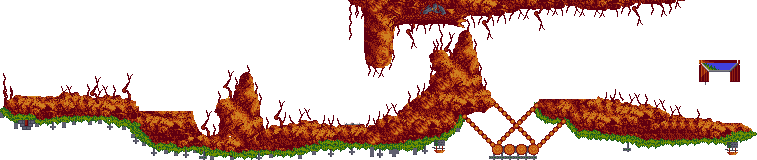
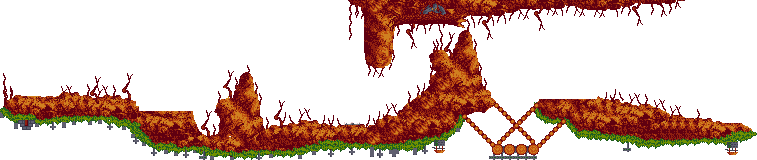
added gate positions for all levels

Changed region(s): [[0.9115, 0.375, 1.0, 0.5312]]

diff --git a/src/lemmings/utils.hpp b/src/lemmings/utils.hpp
@@ -288,13 +288,13 @@ namespace Utils
   const float LEVEL_GATE_TIME_ANIMATION[5] = {0.8f, 0.8f, 0.8f, 0.8f, 0.3f};
   const int LEVEL_GATE_TYPE[4][31] = {{G_FOREST, G_FOREST, G_DESSERT, G_DESSERT, G_SHAFT_PINK, G_SHAFT_BLUE, G_HELL, G_SHAFT_PINK, G_DESSERT, G_SHAFT_PINK, G_DESSERT, G_SHAFT_PINK, G_DESSERT, G_HELL, G_DESSERT, G_DESSERT, G_HELL, G_SHAFT_PINK, G_HELL, G_SHAFT_PINK, G_SHAFT_PINK, G_FOREST, G_FOREST, G_HELL, G_SHAFT_PINK, G_SHAFT_BLUE, G_DESSERT, G_SHAFT_PINK, G_HELL, G_DESSERT, G_HELL},
                                       {G_FOREST, G_FOREST, G_HELL, G_FOREST, G_FOREST, G_SHAFT_BLUE, G_HELL, G_DESSERT, G_HELL, G_FOREST, G_HELL, G_SHAFT_PINK, G_SHAFT_PINK, G_DESSERT, G_HELL, G_FOREST, G_SHAFT_BLUE, G_HELL, G_DESSERT, G_SHAFT_PINK, G_HELL, G_HELL, G_DESSERT, G_DESSERT, G_SHAFT_PINK, G_DESSERT, G_SHAFT_PINK, G_FOREST, G_FOREST, G_SHAFT_PINK, G_DESSERT},
-                                      {G_FOREST, G_DESSERT, G_FOREST, G_HELL, G_DESSERT, G_HELL, G_SHAFT_PINK, G_FOREST, G_SHAFT_BLUE, G_DESSERT, G_HELL, G_DESSERT, G_HELL, G_FOREST, G_FOREST, G_HELL, G_HELL, G_HELL, G_SHAFT_PINK, G_HELL, G_SHAFT_BLUE, G_HELL, G_SHAFT_PINK, G_HELL, G_HELL, G_SHAFT_PINK, G_HELL, G_DESSERT, G_SHAFT_BLUE, G_FOREST, G_HELL},
+                                      {G_FOREST, G_DESSERT, G_FOREST, G_HELL, G_DESSERT, G_HELL, G_SHAFT_PINK, G_FOREST, G_SHAFT_BLUE, G_DESSERT, G_HELL, G_DESSERT, G_HELL, G_FOREST, G_FOREST, G_FOREST, G_HELL, G_HELL, G_SHAFT_PINK, G_HELL, G_SHAFT_BLUE, G_HELL, G_SHAFT_PINK, G_HELL, G_HELL, G_SHAFT_PINK, G_HELL, G_DESSERT, G_SHAFT_BLUE, G_FOREST, G_HELL},
                                       {G_FOREST, G_FOREST, G_HELL, G_SHAFT_PINK, G_SHAFT_BLUE, G_HELL, G_FOREST, G_SHAFT_PINK, G_HELL, G_DESSERT, G_SHAFT_PINK, G_HELL, G_FOREST, G_DESSERT, G_SHAFT_PINK, G_HELL, G_SHAFT_PINK, G_SHAFT_PINK, G_FOREST, G_SHAFT_PINK, G_SHAFT_PINK, G_SHAFT_PINK, G_FOREST, G_SHAFT_BLUE, G_HELL, G_DESSERT, G_FOREST, G_SHAFT_PINK, G_SHAFT_PINK, G_DESSERT, G_FOREST}};
 
   const Point3f LEVEL_GATE_POSITION[4][31] = {{Point3f(200, 130, 500), Point3f(1756.88, 162.742, 500), Point3f(1786.83, 194.386, 500), Point3f(1394.18, 202.782, 500), Point3f(1728.38, -8.13497, 500), Point3f(1935.42, 158.481, 500), Point3f(1746.58, 104.385, 500), Point3f(2050.54, 88.5411, 500), Point3f(1064.45, 98.347, 500), Point3f(1688.35, 144.29, 500), Point3f(1415.92, 186.71, 500), Point3f(1790.87, 168.578, 500), Point3f(1814.94, 138.479, 500), Point3f(1947.22, 136.837, 500), Point3f(2323.65, 105.015, 500), Point3f(2617.62, 22.738, 500), Point3f(1873.84, 32.5396, 500), Point3f(1890.52, 167.937, 500), Point3f(2014.15, 174.778, 500), Point3f(2860.95, 64.5198, 500), Point3f(1953.04, 105.043, 500), Point3f(2537.51, 170.078, 500), Point3f(2171.01, 34.7064, 500), Point3f(0.0158057, 8.93832, 500), Point3f(1822.42, 184.225, 500), Point3f(1874.37, 206.627, 1), Point3f(2167.66, 90.55, 500), Point3f(1657.57, 200.037, 500), Point3f(1122.54, 24.2606, 500), Point3f(859.625, 20.6917, 500), Point3f(1430.89, 192.7, 500)},
                                               {Point3f(1584.f, 100, 500), Point3f(2130.1, 129.972, 500), Point3f(1947.22, 136.837, 500), Point3f(2149.12, 2.13625, 500), Point3f(2452.57, 124.853, 500), Point3f(2622.83, 55.0826, 500), Point3f(1849.65, 168.914, 500), Point3f(958.085, 178.929, 500), Point3f(1279.2, 0.348938, 500), Point3f(1610.54, 178.091, 500), Point3f(1537.54, 32.7569, 500), Point3f(1910.24, 32.8758, 500), Point3f(1779.91, 119.898, 500), Point3f(1872.05, 75.0468, 500), Point3f(2397.4, 66.8453, 500), Point3f(1756.88, 162.742, 500), Point3f(1935.42, 158.481, 500), Point3f(1746.58, 104.385, 500), Point3f(1786.83, 194.386, 500), Point3f(2050.54, 88.5411, 500), Point3f(2205.64, 144.821, 500), Point3f(1843.06, 137.338, 299), Point3f(1064.45, 98.347, 500), Point3f(1814.94, 138.479, 500), Point3f(2048.1, 46.8729, 500), Point3f(1823.98, 107.393, 500), Point3f(1688.35, 144.29, 500), Point3f(1602.3, -4.50176, 500), Point3f(1608.98, 50.0881, 500), Point3f(2522.71, 200.17, 500), Point3f(2323.65, 105.015, 500)},
-                                              {Point3f(1584.f, 100, 500), Point3f(2617.62, 22.738, 500), Point3f(760.483, 89.9639, 500), Point3f(1873.84, 32.5396, 500), Point3f(1563.87, -53.6483, 500), Point3f(1802.29, 17.8308, 500), Point3f(1890.52, 167.937, 500), Point3f(1584.f, 100, 500), Point3f(1584.f, 100, 500), Point3f(1584.f, 100, 500), Point3f(1584.f, 100, 500), Point3f(1584.f, 100, 500), Point3f(1584.f, 100, 500), Point3f(1584.f, 100, 500), Point3f(1584.f, 100, 500), Point3f(1584.f, 100, 500), Point3f(1584.f, 100, 500), Point3f(1584.f, 100, 500), Point3f(1584.f, 100, 500), Point3f(1584.f, 100, 500), Point3f(1584.f, 100, 500), Point3f(1584.f, 100, 500), Point3f(1584.f, 100, 500), Point3f(1584.f, 100, 500), Point3f(1584.f, 100, 500), Point3f(1584.f, 100, 500), Point3f(1584.f, 100, 500), Point3f(1584.f, 100, 500), Point3f(1584.f, 100, 500), Point3f(1584.f, 100, 500), Point3f(1584.f, 100, 500)},
-                                              {Point3f(1584.f, 100, 500), Point3f(1584.f, 100, 500), Point3f(1584.f, 100, 500), Point3f(1584.f, 100, 500), Point3f(1584.f, 100, 500), Point3f(1584.f, 100, 500), Point3f(1584.f, 100, 500), Point3f(1584.f, 100, 500), Point3f(1584.f, 100, 500), Point3f(1584.f, 100, 500), Point3f(1584.f, 100, 500), Point3f(1584.f, 100, 500), Point3f(1584.f, 100, 500), Point3f(1584.f, 100, 500), Point3f(1584.f, 100, 500), Point3f(1584.f, 100, 500), Point3f(1584.f, 100, 500), Point3f(1584.f, 100, 500), Point3f(1584.f, 100, 500), Point3f(1584.f, 100, 500), Point3f(1584.f, 100, 500), Point3f(1584.f, 100, 500), Point3f(1584.f, 100, 500), Point3f(1584.f, 100, 500), Point3f(1584.f, 100, 500), Point3f(1584.f, 100, 500), Point3f(1584.f, 100, 500), Point3f(1584.f, 100, 500), Point3f(1584.f, 100, 500), Point3f(1584.f, 100, 500), Point3f(1584.f, 100, 500)}};
+                                              {Point3f(1584.f, 100, 500), Point3f(2617.62, 22.738, 500), Point3f(760.483, 89.9639, 500), Point3f(1873.84, 32.5396, 500), Point3f(1563.87, -53.6483, 500), Point3f(1802.29, 17.8308, 500), Point3f(1890.52, 167.937, 500), Point3f(2452.57, 124.853, 500), Point3f(2622.83, 55.0826, 500), Point3f(1415.92, 186.71, 500), Point3f(1849.65, 168.914, 500), Point3f(958.085, 178.929, 500), Point3f(1827.79, 9.22238, 500), Point3f(851.436, 91.1705, 500), Point3f(3050.02, 92.4837, 500), Point3f(2379.09, -43.9708, 500), Point3f(1956.13, 144.995, 500), Point3f(0.0158057, 8.93832, 500), Point3f(1790.87, 168.578, 500), Point3f(2014.15, 174.778, 500), Point3f(2550.65, 207.787, 500), Point3f(1628.92, 120.158, 500), Point3f(1657.57, 200.037, 500), Point3f(1279.2, 0.348938, 500), Point3f(1545.31, 144.155, 500), Point3f(2860.95, 64.5198, 500), Point3f(1554.76, 88.3305, 500), Point3f(1670.5, 27.6365, 500), Point3f(2049.4, 46.7436, 500), Point3f(2149.12, 2.13625, 500), Point3f(1947.22, 136.837, 500)},
+                                              {Point3f(1584.f, 100, 500), Point3f(2196.85, -53.998, 500), Point3f(1300.28, 24.2471, 500), Point3f(1822.42, 184.225, 500), Point3f(1874.37, 206.627, 500), Point3f(1122.54, 24.2606, 500), Point3f(1611.43, 179.119, 500), Point3f(1953.04, 105.043, 500), Point3f(1893.76, 199.935, 299), Point3f(859.625, 20.6917, 500), Point3f(967.888, 8.22437, 500), Point3f(1947.22, 136.837, 500), Point3f(1632.85, 42.5451, 500), Point3f(2167.66, 90.55, 500), Point3f(2043.61, 184.145, 500), Point3f(1537.54, 32.7569, 500), Point3f(1838.84, 119.993, 500), Point3f(1919.54, 32.6393, 500), Point3f(1545.68, 82.4331, 500), Point3f(1910.24, 32.8758, 500), Point3f(1728.38, -8.13497, 500), Point3f(1910.24, 32.8758, 500), Point3f(2225.08, 154.242, 500), Point3f(583.367, 189.813, 500), Point3f(1430.89, 192.7, 500), Point3f(1872.05, 75.0468, 500), Point3f(2537.51, 170.078, 500), Point3f(1838.84, 119.993, 500), Point3f(1089.25, 136.753, 500), Point3f(650.604, 178.342, 500), Point3f(1543.99, -38.0992, 500)}};
 
   enum BRICKS_TYPE
   {
